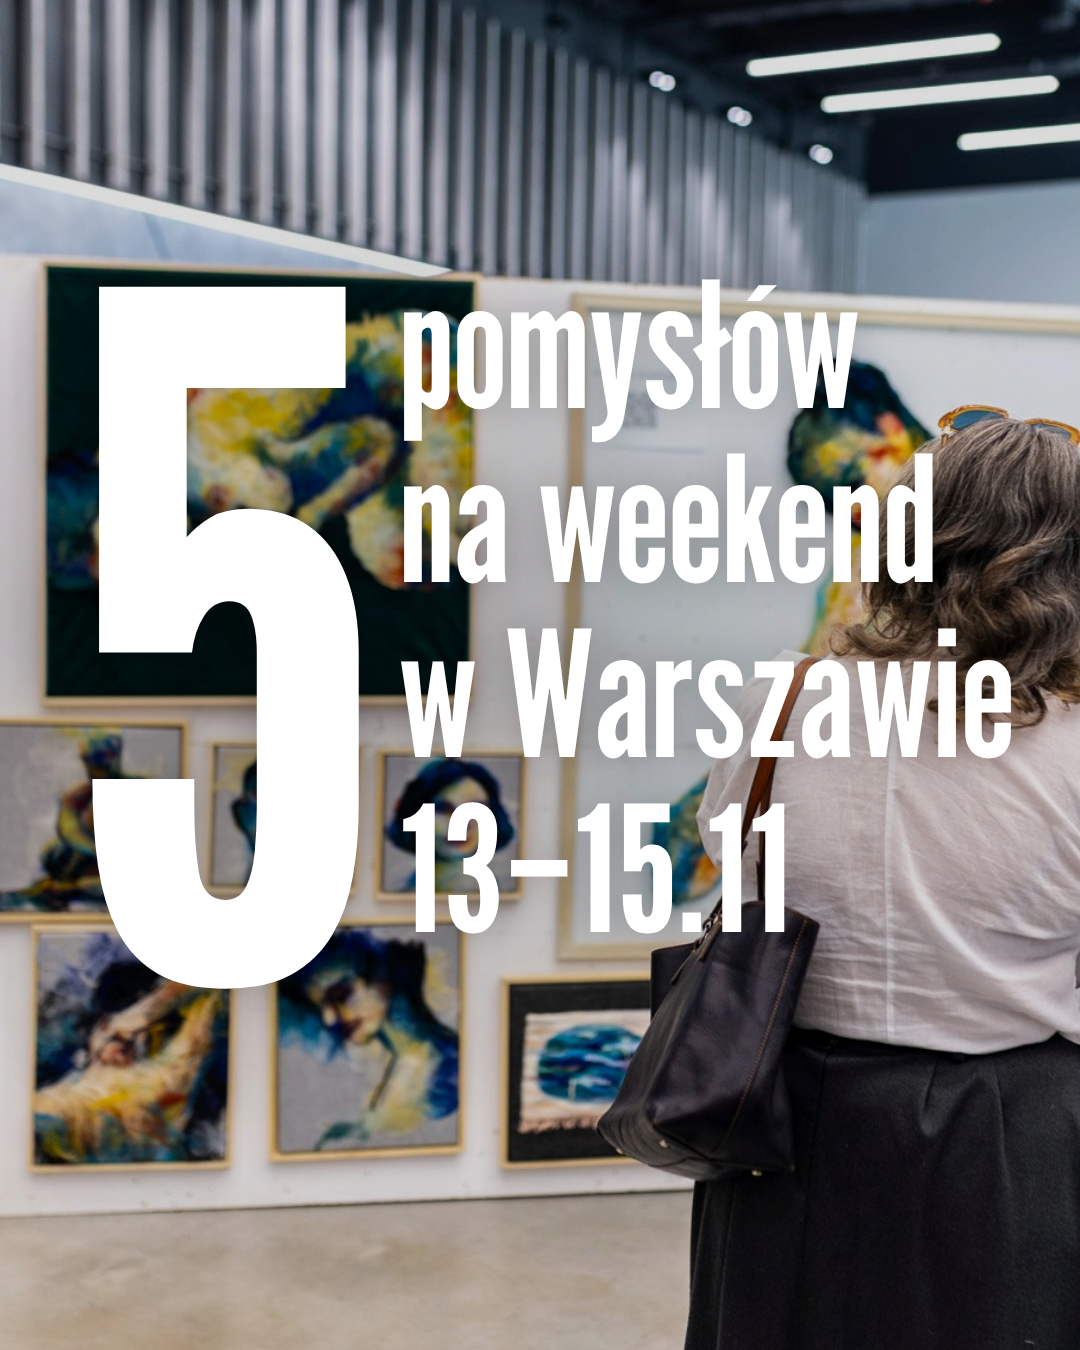
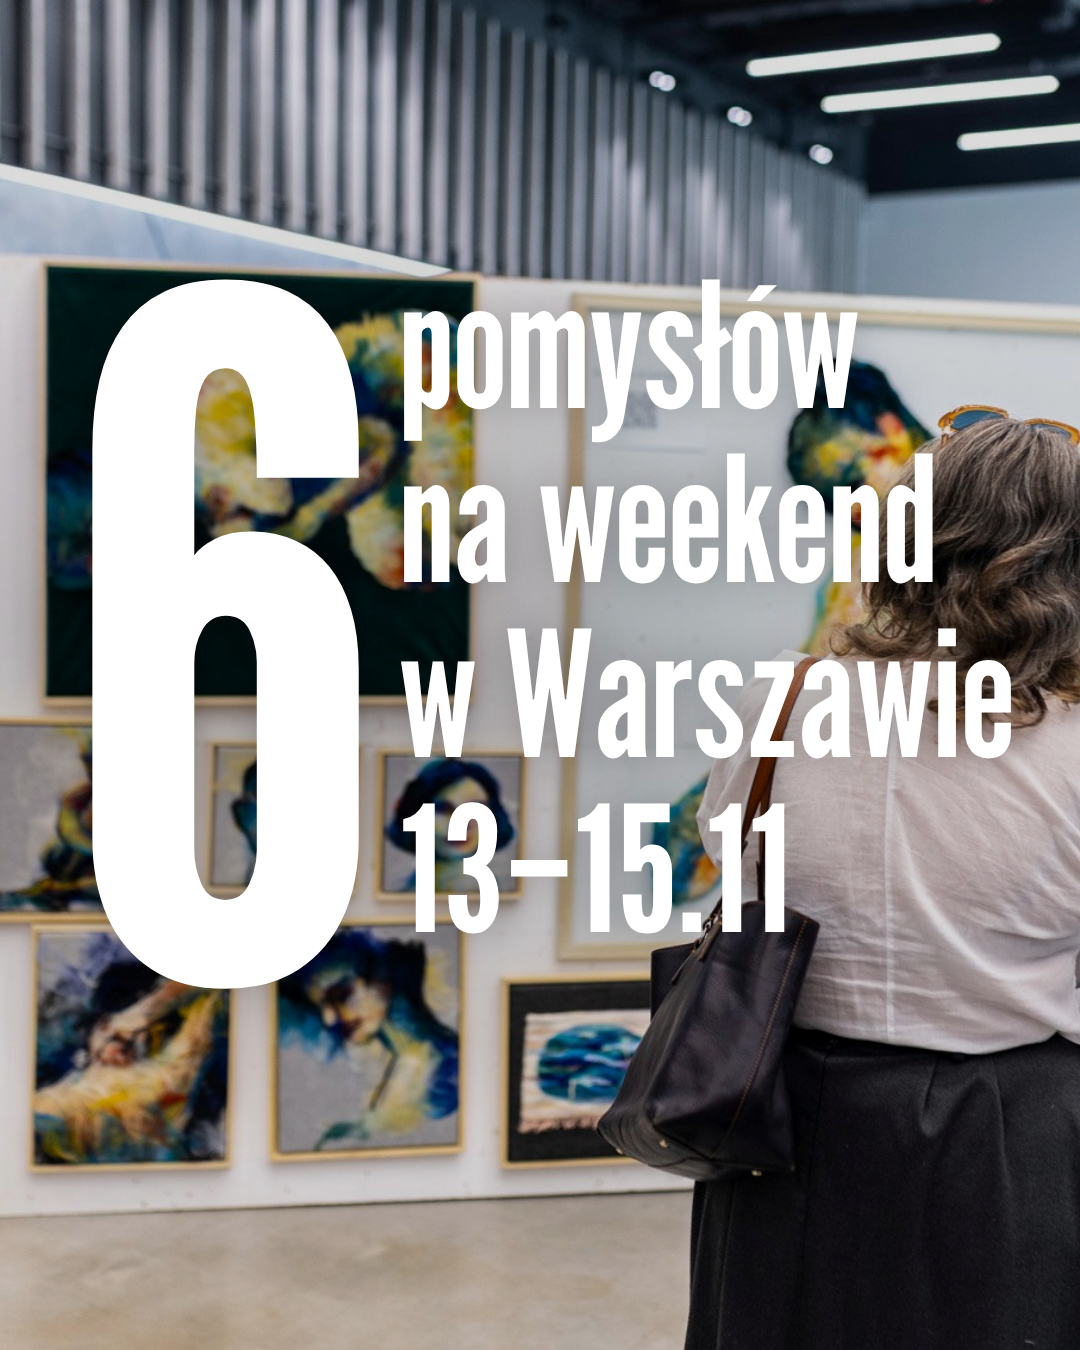
Plan kroczący 6.11: 6.11 bez wyprzedanego seansu 7.11, Legia – King w karuzeli 12.11, nowy post 13.11 (Symfonia tańca 14.11)
Claude-Session: https://claude.ai/code/session_01XLM2maJReU7e4WTN82voGb

diff --git a/research/2026-11-06.md b/research/2026-11-06.md
@@ -1,0 +1,49 @@
+# Research dzienny: pt. 6.11.2026 (kontrola 6–16.11, „Wieczór bez dzieci” 13.11, pierwszy przegląd 20–22.11)
+
+Sprawdzone 6.11 między 7:50 a 9:00 (`curl`, Chromium tylko do odczytu cennika TW-ON; API IG: legiakosz, warsawghettomuseum, polinmuseum, operanarodowa; systemy biletowe Sinfonii Varsovii, Guliwera, Lalki, Legii kosz, TW-ON, Biletomat i formularz MGW tylko do podglądu, bez rezerwacji). Uzupełnia `research/2026-11-05.md`.
+
+## 1. Kontrola kolejki
+
+| Post | Pozycja | Wynik 6.11 |
+|---|---|---|
+| **6.11 (dziś 11:00)** | Sinfonia „Polifonie” pt.–nd. 6–8.11, 12–21, wstęp wolny | OK (strona: też 12.11 18–21, 13–15.11 i 20–22.11 12–21, 24.11 18–21) |
+| **6.11 (dziś 11:00)** | **„Teatr Anatomiczny. Konstelacje” sob. 7.11 17:30** | **WYPRZEDANE**: system biletowy (bilety.sinfoniavarsovia.org, id=228, idw=84) „Termin niedostępny … wszystkie bilety zostały już wyprzedane”. Kolejne seanse 20.11 (pt.), 21.11 (sob.), 29.11 (nd.), 17:30: strony seansów -4/-5/-6 „bezpłatne wejściówki do pobrania wkrótce” |
+| 9.11 | MHP 11.11, L'Huillier 14.11 11:00 (wstęp wolny), Wilanów Drukarnia | OK (200, bez odwołań) |
+| 9.11 | Spacer MGW 14.11 11:00 | formularz **Active**, `FormClosed: false` |
+| 10.11 | Lalka „Król Maciuś I” | **sob. 14.11 17:00: 49 wolnych, nd. 15.11 12:00: 29** (5.11: 53/33) |
+| 10.11 | Baj „Skarpetki” 14.11 15:30 i 17:30, 15.11 11:00 | „Kup bilet” przy każdym terminie |
+| 12.11 | Guliwer „Ucho” | **sob. 11:00: 30, 13:00: 35; nd. 11:00: 28, 13:00: 15** |
+| 12.11 | Jussen, Händel 13.11 i 14.11 | „Kup bilet” |
+| 12.11 | FLA, Targowisko Sztuki (wstęp wolny) | bez zmian |
+| 16.11 | fakty (1943.pl, IPN, film) | źródła 200; **program uroczystości 16.11 nadal nieogłoszony** (1943.pl ostatni wpis 2.11; IG MGW 5.11 tylko archiwalne zdjęcia budowy muru na Skórzanej; POLIN bez zapowiedzi, polin.pl 403; jhi.pl bez trafień) |
+
+**Legia kosz – King Szczecin, sob. 14.11, 17:30, Hala OSiR Bemowo: bilety W SPRZEDAŻY** (przy meczu przycisk „Kup bilet” → bilety.legiakosz.com/Stadium/Index?eventId=633). Cennik z systemu (normalny / ulgowy): strefa zielona 60/50 zł, biała 70/60, czerwona 80/70, premium 100/80, VIP 370 (ulgowy 229), VIP II 229, sofa VIP 800. Sektora rodzinnego w systemie brak. Liczby wolnych miejsc nie sprawdzono (mapa w JS). Zdjęcie: `@legiakosz/DfXfFFQjTj5` (karuzela 5.11 „TEAM”, slajd 1, 4096×3260: drużyna robi selfie na parkiecie po wygranej z Galatasaray; uwaga, to hala COS Torwar, nie Bemowo).
+
+## 2. „Wieczór bez dzieci” pt. 13.11: wybór
+
+**Polski Balet Narodowy „Symfonia tańca bis”**: sob. 14.11, 19:00, Teatr Wielki – Opera Narodowa, Sala Moniuszki, pl. Teatralny 1. Ok. 2 h 15 min (45 + 20 przerwy + 30 + 20 przerwy + 20). Wieczór w trzech częściach: „Symphony in C” Balanchine'a do Bizeta, „Ssss…” Edwarda Cluga do pięciu nokturnów Chopina, na koniec „Bolero” Krzysztofa Pastora do Ravela. Orkiestra TW-ON. Ostatni termin tej serii (31.10, 3.11, 7.11, 14.11). Ceny (butik TW-ON, strefy): 46, 144, 242, 286, 386 zł; „Kup bilet”, sprzedaż trwa, liczby miejsc nie liczono. Wiek: brak ograniczenia (wieczorny spektakl). IG z linku na stronie: @operanarodowa (ostatnie posty bez kadru z tego baletu). Grafika: https://teatrwielki.pl//fileadmin/import/media/img/Sezon_2026_27/symfonia_tanca_kwadrat_26_27.jpg (200, 1200×1200, tancerka w białej paczce na pointach na granatowym tle, „Symphony in C”). Źródło: https://teatrwielki.pl/kalendarium/2026-2027/symfonia-tanca-bis/termin/2026-11-14_19-00/ (EN: /en/calendar/2026-2027/symphony-of-dance-an-encore/termin/2026-11-14_19-00/). Rozbieżność: nagłówek strony EN wymienia jeszcze Beethovena / van Schayka (zeszły sezon), opis i polska strona mówią o Bolero Pastora. Pewność: P.
+
+Druga opcja (częściowo): **Polska Opera Królewska „Elgar – Beethoven – Panufnik”**, sob. 14.11, 19:00, Studio Koncertowe PR im. Lutosławskiego, ul. Modzelewskiego 59; „Nimrod” z „Enigmy”, Koncert skrzypcowy Beethovena (Roman Simović, koncertmistrz LSO, Stradivarius 1709), „Polonia” Panufnika; dyr. Dawid Runtz; ok. 1 h 30 min z przerwą. Ceny koncertów POK „40–100 zł” (ogólny cennik, bez ceny tego koncertu). **Biletomat (rezerwacja/355545) pokazuje „Sprzedaż online została zakończona”** (tak samo dla 355542–355547), więc możliwe wyprzedanie: nie dawać bez potwierdzenia. @operakrolewska; grafika og:image https://operakrolewska.pl/wp-content/uploads/2026/07/strona_k-symfoniczny_06.2026.jpg (wymiarów nie sprawdzano).
+
+Kluby jazzowe (12on14, Jassmine): proxy odrzuca połączenie, nie sprawdzono.
+
+## 3. Weekend 20–22.11: pierwszy przegląd
+
+| Co | Kiedy | Gdzie | Cena | Źródło | Pewność |
+|---|---|---|---|---|---|
+| **Jarmark Warszawski, II edycja** (ponad 200 wystawców, karuzele, wieża widokowa, labirynt elfów, domek Mikołaja) | od pt. 20.11, codziennie 11–22 (do 6.01.2027) | pl. Defilad, PKiN | wstęp wolny, atrakcje płatne | jarmarkwarszawski.pl (jarmark.waw.pl) | P; **wydarzenia otwarcia nie ogłoszono** (strona zmieniona 4.11); @jarmarkwarszawski |
+| Opera Mykietyna „Czarodziejska góra” (wg Manna), **premiera** | pt. 20.11, 19:00; też 21 i 22.11 | Nowy Teatr (koprodukcja z TW-ON), po niemiecku | nie sprawdzono | teatrwielki.pl kalendarz XI (strona myli datę premiery: „20 December”) | częściowo |
+| „Salome” R. Straussa, **premiera** (z Teatro Real) | nd. 22.11, 18:00 | TW-ON, Sala Moniuszki | nie sprawdzono | jw. | częściowo |
+| Polski Balet Narodowy Junior „Juvenalia 5” | pt. 20.11 19:00, sob. 21.11 12:00 i 18:00 | TW-ON, Sala Młynarskiego | nie sprawdzono | jw. | częściowo |
+| Sinfonia Varsovia „Polifonie” + „Konstelacje” | wystawa 20–22.11 12–21; seanse 20 i 21.11 17:30 | Grochowska 272 | wolny; wejściówki „wkrótce” | sinfoniavarsovia.org | P (wystawa); seanse: pilnować startu wejściówek, 7.11 rozeszły się |
+| Kopernik „Orbita jazzu: IKIGAI” / „Post mortem” | 20.11 20:00 / 19.11 19:00 | CNK | 55 zł | notatka 5.11 | P |
+| Filharmonia „Głowa pełna dźwięków”, Lalka „Śpiąca królewna”, Zukerman x Sinfonia Varsovia | 21–22.11 | — | — | notatka 5.11 | jak 5.11 |
+
+Legia (piłka) 20–22.11: ekstraklasa.org pokazuje tylko bieżącą kolejkę (Legia – Raków 8.11 17:30); termin kolejnego meczu u siebie nie sprawdzony.
+
+## Wnioski
+
+- **Dziś 11:00: „Konstelacje” 7.11 wyprzedane** u organizatora. Według trybu 1 pozycję i slajd 2 trzeba zdjąć albo zostawić tylko informację o seansach 20, 21 i 29.11 (wejściówki jeszcze niewydane). Wystawa „Polifonie” bez zmian.
+- Legia kosz – King: bilety ruszyły (50–100 zł w strefach zwykłych); można dać do posta, który wychodzi za ponad 12 h (np. 12.11).
+- 13.11: „Symfonia tańca bis” (14.11, 46–386 zł, ostatni termin serii) jest pewniejsza niż koncert POK (online „sprzedaż zakończona”).
+- Maciuś nd. 29 miejsc, Ucho nd. 13:00 15 miejsc: sprzedaż idzie, nadal bez wyprzedań.
